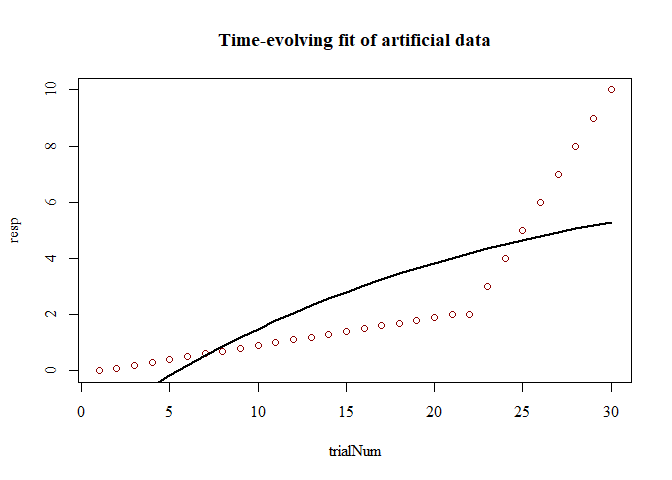
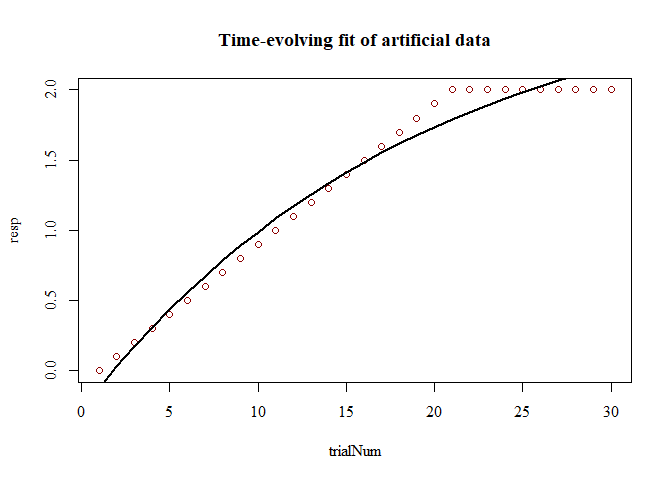
update README

diff --git a/README.md b/README.md
@@ -5,15 +5,9 @@ Overview to Time-Evolving fits
 The **TEfits** package streamlines nonlinear regression, such as that encountered in analysis of learning. The **TEfits** package is intended to assist in the implementation and interpretation of nonlinear regression with a heavy emphasis on interpretability of parameters. Parameters fit by **TEfits** are meant to reflect human-interpretable representations of time-evolving processes. Error functions, nonlinear ("change") functions linking parameters and time to predicted values, parameter and prediction boundaries, and goodness-of-fit indices are intended to be clear and adjustable. An equal emphasis is on ease of use: minimal arguments are necessary to begin using the primary function, `TEfit()`, and many common tasks are fully automated (e.g., optimization starting points, bootstrapping).
 
 ``` r
-dat <- data.frame(resp=c(seq(0,2,.1),seq(2,10)),trialNum=1:30)
-
+dat <- data.frame(resp=c(seq(0,2,.1),rep(2,9)),trialNum=1:30)
 mod <- TEfit(dat[,c('resp','trialNum')])
-```
 
-    ## 
-    ## Your rate is very close to the boundary. Consider penalizing the likelihood.
-
-``` r
 plot(mod,plot_title='Time-evolving fit of artificial data')
 ```
 
@@ -30,20 +24,20 @@ summary(mod)
     ## 
     ## >> Fit Values:
     ##        Estimate
-    ## pAsym     7.669
-    ## pStart   -1.834
-    ## pRate     3.858
+    ## pAsym     2.800
+    ## pStart   -0.124
+    ## pRate     3.704
     ## 
     ## >> Goodness-of-fit:
-    ##          err nullErr nPars nObs    Fval         Pval  Rsquared      BIC
-    ## ols 92.51078   225.2     3   30 19.3632 6.080279e-06 0.5892061 43.98743
-    ##      nullBIC  deltaBIC
-    ## ols 63.87494 -19.88752
+    ##           err nullErr nPars nObs     Fval Pval Rsquared       BIC nullBIC
+    ## ols 0.2730278      14     3   30 678.7373    0 0.980498 -130.7778 -19.463
+    ##      deltaBIC
+    ## ols -111.3148
     ## 
     ## >> Test of change in nonindependence:
     ##                                            rawSpearman modelConditionalSpearman
-    ## Nonindependence between resp and trialNum:   0.9998888               0.03136819
+    ## Nonindependence between resp and trialNum:   0.9814747               0.04916574
     ##                                            proportionalSpearmanChange
-    ## Nonindependence between resp and trialNum:                 0.03137168
+    ## Nonindependence between resp and trialNum:                 0.05009374
     ##                                            pValSpearmanChange
     ## Nonindependence between resp and trialNum:                  0
